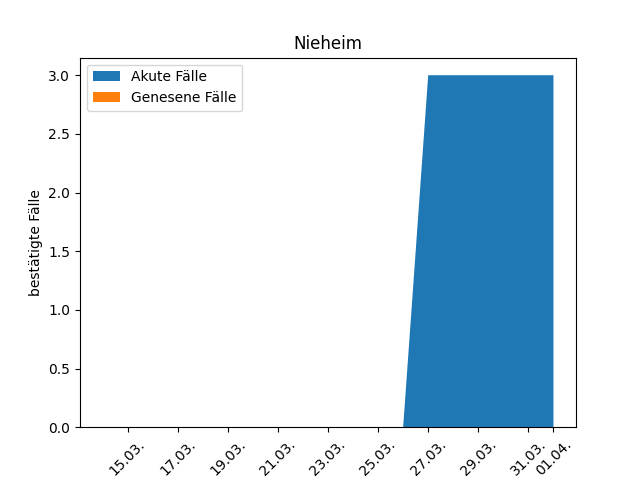
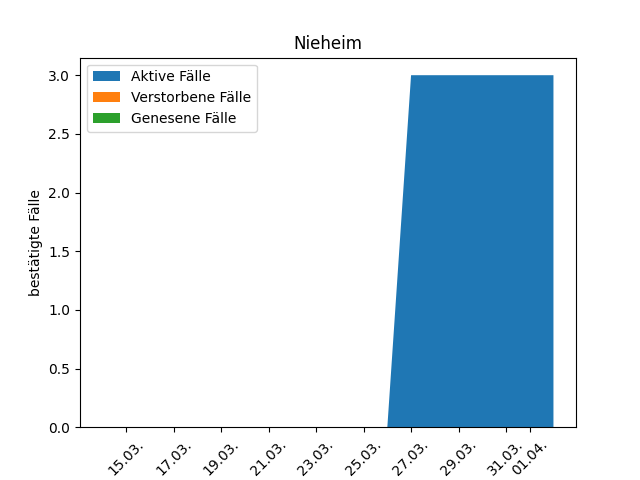
Adding death cases

diff --git a/kreis-hoexter.html b/kreis-hoexter.html
@@ -69,11 +69,11 @@
         </div>
     </div>
     <div class="container">
-        <h2>Wie viele Personen sind infiziert oder genesen?</h2>
+        <h2>Wie viele Personen sind infiziert, genesen oder verstorben?</h2>
 
 <figure class="figure">
   <img src="/assets/plots/district-hoexter-stacked.png" class="figure-img img-fluid rounded" alt="Das Diagramm zeigt den Verlauf in den Gemeinden im Kreis." />
-  <figcaption class="figure-caption">Bestätigte Infektionen und Genesungen ergeben zusammen alle Fälle.</figcaption>
+  <figcaption class="figure-caption">Aktive, genesene und Todesfälle ergeben zusammen alle bestätigten Infektionen.</figcaption>
 </figure>
 
 <h2>Wie vergleichen sich die Gemeinden?</h2>

diff --git a/communes/bad-driburg.html b/communes/bad-driburg.html
@@ -73,11 +73,11 @@
 der seitdem dem Kreis Paderborn zugeordnet wird.</p>
 
 
-<h2>Wie viele Personen sind infiziert oder genesen?</h2>
+<h2>Wie viele Personen sind infiziert, genesen oder verstorben?</h2>
 
 <figure class="figure">
   <img src="/assets/plots/bad-driburg-stacked.png" class="figure-img img-fluid rounded" alt="Das Diagramm zeigt einen Stackplot.">
-  <figcaption class="figure-caption">Bestätigte Infektionen und Genesungen ergeben zusammen alle Fälle.</figcaption>
+  <figcaption class="figure-caption">Aktive, genesene und Todesfälle ergeben zusammen alle bestätigten Infektionen.</figcaption>
 </figure>
 
 <h2>Wie hoch ist der Anteil der Infizierten im Vergleich?</h2>

diff --git a/communes/marienmuenster.html b/communes/marienmuenster.html
@@ -72,11 +72,11 @@
         
 
 
-<h2>Wie viele Personen sind infiziert oder genesen?</h2>
+<h2>Wie viele Personen sind infiziert, genesen oder verstorben?</h2>
 
 <figure class="figure">
   <img src="/assets/plots/marienmuenster-stacked.png" class="figure-img img-fluid rounded" alt="Das Diagramm zeigt einen Stackplot.">
-  <figcaption class="figure-caption">Bestätigte Infektionen und Genesungen ergeben zusammen alle Fälle.</figcaption>
+  <figcaption class="figure-caption">Aktive, genesene und Todesfälle ergeben zusammen alle bestätigten Infektionen.</figcaption>
 </figure>
 
 <h2>Wie hoch ist der Anteil der Infizierten im Vergleich?</h2>

diff --git a/communes/willebadessen.html b/communes/willebadessen.html
@@ -72,11 +72,11 @@
         
 
 
-<h2>Wie viele Personen sind infiziert oder genesen?</h2>
+<h2>Wie viele Personen sind infiziert, genesen oder verstorben?</h2>
 
 <figure class="figure">
   <img src="/assets/plots/willebadessen-stacked.png" class="figure-img img-fluid rounded" alt="Das Diagramm zeigt einen Stackplot.">
-  <figcaption class="figure-caption">Bestätigte Infektionen und Genesungen ergeben zusammen alle Fälle.</figcaption>
+  <figcaption class="figure-caption">Aktive, genesene und Todesfälle ergeben zusammen alle bestätigten Infektionen.</figcaption>
 </figure>
 
 <h2>Wie hoch ist der Anteil der Infizierten im Vergleich?</h2>

diff --git a/communes/borgentreich.html b/communes/borgentreich.html
@@ -72,11 +72,11 @@
         
 
 
-<h2>Wie viele Personen sind infiziert oder genesen?</h2>
+<h2>Wie viele Personen sind infiziert, genesen oder verstorben?</h2>
 
 <figure class="figure">
   <img src="/assets/plots/borgentreich-stacked.png" class="figure-img img-fluid rounded" alt="Das Diagramm zeigt einen Stackplot.">
-  <figcaption class="figure-caption">Bestätigte Infektionen und Genesungen ergeben zusammen alle Fälle.</figcaption>
+  <figcaption class="figure-caption">Aktive, genesene und Todesfälle ergeben zusammen alle bestätigten Infektionen.</figcaption>
 </figure>
 
 <h2>Wie hoch ist der Anteil der Infizierten im Vergleich?</h2>

diff --git a/communes/beverungen.html b/communes/beverungen.html
@@ -72,11 +72,11 @@
         
 
 
-<h2>Wie viele Personen sind infiziert oder genesen?</h2>
+<h2>Wie viele Personen sind infiziert, genesen oder verstorben?</h2>
 
 <figure class="figure">
   <img src="/assets/plots/beverungen-stacked.png" class="figure-img img-fluid rounded" alt="Das Diagramm zeigt einen Stackplot.">
-  <figcaption class="figure-caption">Bestätigte Infektionen und Genesungen ergeben zusammen alle Fälle.</figcaption>
+  <figcaption class="figure-caption">Aktive, genesene und Todesfälle ergeben zusammen alle bestätigten Infektionen.</figcaption>
 </figure>
 
 <h2>Wie hoch ist der Anteil der Infizierten im Vergleich?</h2>

diff --git a/communes/steinheim.html b/communes/steinheim.html
@@ -72,11 +72,11 @@
         
 
 
-<h2>Wie viele Personen sind infiziert oder genesen?</h2>
+<h2>Wie viele Personen sind infiziert, genesen oder verstorben?</h2>
 
 <figure class="figure">
   <img src="/assets/plots/steinheim-stacked.png" class="figure-img img-fluid rounded" alt="Das Diagramm zeigt einen Stackplot.">
-  <figcaption class="figure-caption">Bestätigte Infektionen und Genesungen ergeben zusammen alle Fälle.</figcaption>
+  <figcaption class="figure-caption">Aktive, genesene und Todesfälle ergeben zusammen alle bestätigten Infektionen.</figcaption>
 </figure>
 
 <h2>Wie hoch ist der Anteil der Infizierten im Vergleich?</h2>

diff --git a/communes/hoexter.html b/communes/hoexter.html
@@ -72,11 +72,11 @@
         
 
 
-<h2>Wie viele Personen sind infiziert oder genesen?</h2>
+<h2>Wie viele Personen sind infiziert, genesen oder verstorben?</h2>
 
 <figure class="figure">
   <img src="/assets/plots/hoexter-stacked.png" class="figure-img img-fluid rounded" alt="Das Diagramm zeigt einen Stackplot.">
-  <figcaption class="figure-caption">Bestätigte Infektionen und Genesungen ergeben zusammen alle Fälle.</figcaption>
+  <figcaption class="figure-caption">Aktive, genesene und Todesfälle ergeben zusammen alle bestätigten Infektionen.</figcaption>
 </figure>
 
 <h2>Wie hoch ist der Anteil der Infizierten im Vergleich?</h2>

diff --git a/communes/nieheim.html b/communes/nieheim.html
@@ -72,11 +72,11 @@
         
 
 
-<h2>Wie viele Personen sind infiziert oder genesen?</h2>
+<h2>Wie viele Personen sind infiziert, genesen oder verstorben?</h2>
 
 <figure class="figure">
   <img src="/assets/plots/nieheim-stacked.png" class="figure-img img-fluid rounded" alt="Das Diagramm zeigt einen Stackplot.">
-  <figcaption class="figure-caption">Bestätigte Infektionen und Genesungen ergeben zusammen alle Fälle.</figcaption>
+  <figcaption class="figure-caption">Aktive, genesene und Todesfälle ergeben zusammen alle bestätigten Infektionen.</figcaption>
 </figure>
 
 <h2>Wie hoch ist der Anteil der Infizierten im Vergleich?</h2>

diff --git a/communes/warburg.html b/communes/warburg.html
@@ -72,11 +72,11 @@
         
 
 
-<h2>Wie viele Personen sind infiziert oder genesen?</h2>
+<h2>Wie viele Personen sind infiziert, genesen oder verstorben?</h2>
 
 <figure class="figure">
   <img src="/assets/plots/warburg-stacked.png" class="figure-img img-fluid rounded" alt="Das Diagramm zeigt einen Stackplot.">
-  <figcaption class="figure-caption">Bestätigte Infektionen und Genesungen ergeben zusammen alle Fälle.</figcaption>
+  <figcaption class="figure-caption">Aktive, genesene und Todesfälle ergeben zusammen alle bestätigten Infektionen.</figcaption>
 </figure>
 
 <h2>Wie hoch ist der Anteil der Infizierten im Vergleich?</h2>

diff --git a/communes/brakel.html b/communes/brakel.html
@@ -72,11 +72,11 @@
         
 
 
-<h2>Wie viele Personen sind infiziert oder genesen?</h2>
+<h2>Wie viele Personen sind infiziert, genesen oder verstorben?</h2>
 
 <figure class="figure">
   <img src="/assets/plots/brakel-stacked.png" class="figure-img img-fluid rounded" alt="Das Diagramm zeigt einen Stackplot.">
-  <figcaption class="figure-caption">Bestätigte Infektionen und Genesungen ergeben zusammen alle Fälle.</figcaption>
+  <figcaption class="figure-caption">Aktive, genesene und Todesfälle ergeben zusammen alle bestätigten Infektionen.</figcaption>
 </figure>
 
 <h2>Wie hoch ist der Anteil der Infizierten im Vergleich?</h2>
